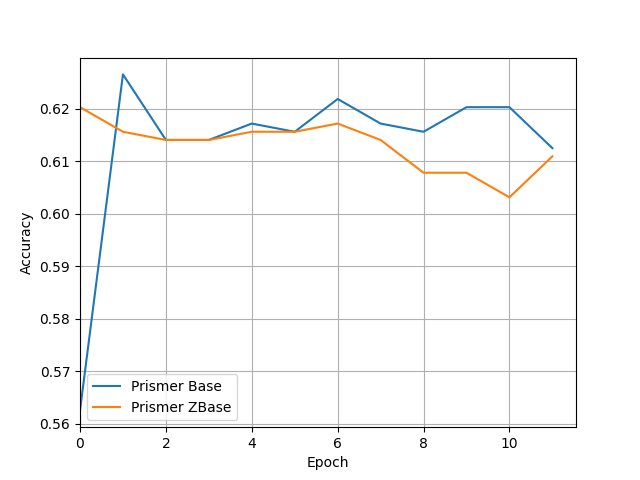
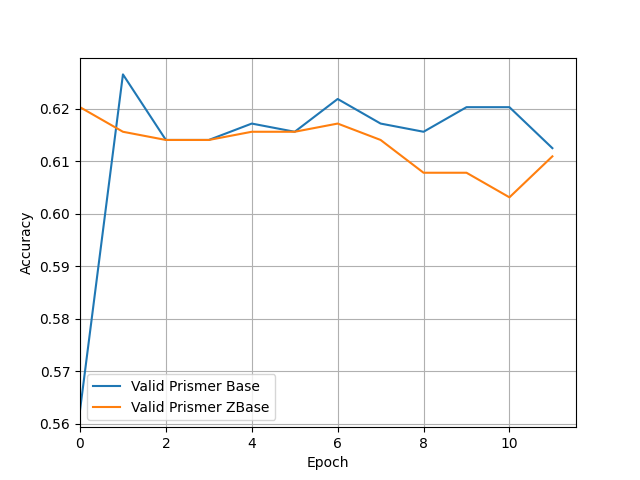
updating graph images

Changed region(s): [[0.1875, 0.7812, 0.4375, 0.875]]

diff --git a/graph_best.py b/graph_best.py
@@ -8,14 +8,20 @@ train_prismerz_df = pd.read_json(open('logging/classification_prismerz_base_save
 valid_prismer_df = pd.read_json(open('logging/classification_prismer_base_bakcup__5e-9/epoch_valid.jsonl'), lines=True)
 valid_prismerz_df = pd.read_json(open('logging/classification_prismerz_base_saved_5e-9/epoch_valid.jsonl'), lines=True)
 
-def plot_graph(df1, df2, ylabel, max_epoch, train=False):
+def plot_graph(df1, df2, ylabel, max_epoch, train=False, df3=None, df4=None):
     if train:
-        graph_type = "train"
+        graph_type = "Train"
     else:
-        graph_type = "valid"
+        graph_type = "Valid"
     plt.figure()
-    plt.plot(df1[df1["epoch"]<=max_epoch][ylabel.lower()], label="Prismer Base")
-    plt.plot(df2[ylabel.lower()], label="Prismer ZBase")
+    if ylabel.lower()=="loss":
+        plt.plot(df1[df1["epoch"]<=max_epoch][ylabel.lower()], label="Train Prismer Base")
+        plt.plot(df2[ylabel.lower()], label="Train Prismer ZBase")
+        plt.plot(df3[df1["epoch"]<=max_epoch][ylabel.lower()], label="Valid Prismer Base")
+        plt.plot(df4[ylabel.lower()], label="Valid Prismer ZBase")
+    else:
+        plt.plot(df1[df1["epoch"]<=max_epoch][ylabel.lower()], label=f"{graph_type} Prismer Base")
+        plt.plot(df2[ylabel.lower()], label=f"{graph_type} Prismer ZBase")
     plt.grid(True)
     plt.legend()
     ax = plt.gca()
@@ -30,7 +36,7 @@ def plot_graph(df1, df2, ylabel, max_epoch, train=False):
     plt.savefig(f"graphs/prismer_{ylabel.lower()}_vs_epoch_{graph_type}.png")
     plt.close()
 
-plot_graph(train_prismer_df, train_prismerz_df, "Loss", 11)
-plot_graph(valid_prismer_df, valid_prismerz_df, "Loss", 11)
+plot_graph(train_prismer_df, train_prismerz_df, "Loss", 11, True, valid_prismer_df, valid_prismerz_df)
+# plot_graph(valid_prismer_df, valid_prismerz_df, "Loss", 11)
 plot_graph(valid_prismer_df, valid_prismerz_df, "Acc", 11)
 plot_graph(valid_prismer_df, valid_prismerz_df, "AUROC", 11)
